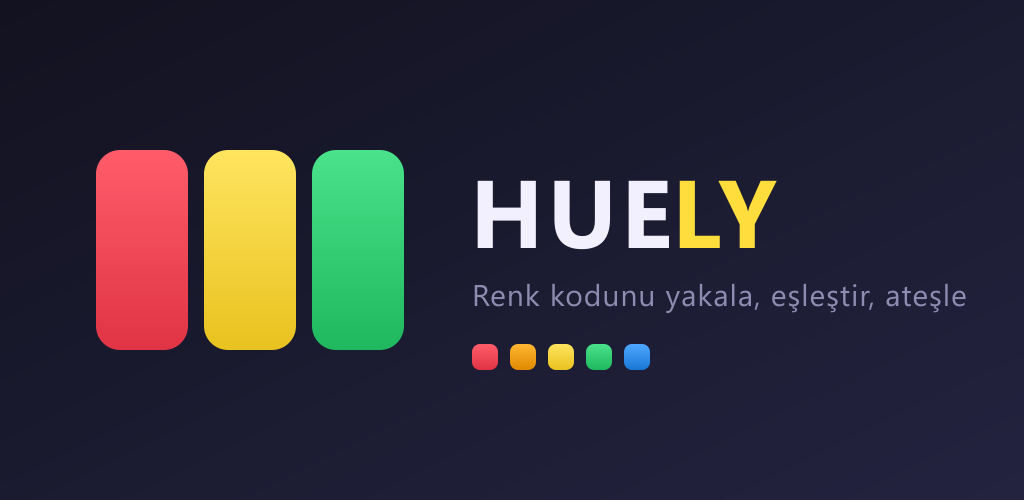
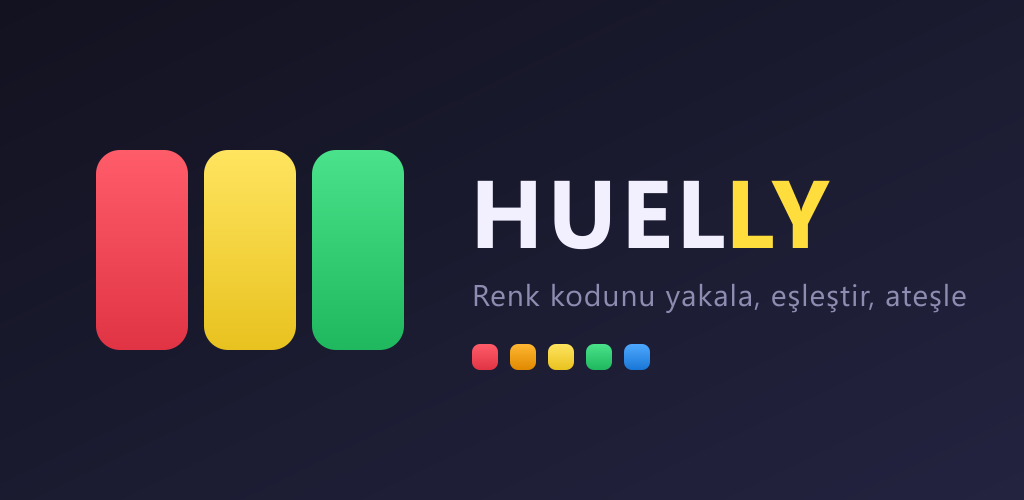
Rename the app from Huely to Huelly
Covers the display name, the wordmark (which is split as markup and so was
missed by a plain search-and-replace), the Android package
com.tahacimen.huely -> com.tahacimen.huelly including its source directory,
the custom URL scheme, the keystore filename in the docs, and the generated
icon, splash and store artwork.

The package id is the app's permanent Play Store identity, but nothing has
been published yet, so changing it now is free.

The GitHub repo URLs are deliberately left as Huely — renaming the repo would
change the live Pages URL and is a separate decision.

Verified on device: launcher reads "Huelly", the game renders HUELLY, and the
new package installs cleanly after removing the old one.

Changed region(s): [[0.6562, 0.36, 0.8125, 0.51]]

diff --git a/docs/index.html b/docs/index.html
@@ -3,8 +3,8 @@
 <head>
 <meta charset="UTF-8">
 <meta name="viewport" content="width=device-width, initial-scale=1">
-<title>Huely — Gizlilik Politikası / Privacy Policy</title>
-<meta name="description" content="Huely oyununun gizlilik politikası. Privacy policy for the Huely game.">
+<title>Huelly — Gizlilik Politikası / Privacy Policy</title>
+<meta name="description" content="Huelly oyununun gizlilik politikası. Privacy policy for the Huelly game.">
 <style>
 :root{
   --bg:#121220; --bg2:#1B1B30; --panel:#232340;
@@ -67,7 +67,7 @@ footer{text-align:center;color:var(--ink-dim);font-size:.85rem;margin-top:48px}
       <span style="background:#FFDD3C"></span><span style="background:#2ED573"></span>
       <span style="background:#1E90FF"></span>
     </div>
-    <div class="brand">Hue<span class="ly">ly</span></div>
+    <div class="brand">Huel<span class="ly">ly</span></div>
     <p>Gizlilik Politikası · Privacy Policy</p>
     <nav class="langbar">
       <a href="#tr">Türkçe</a>
@@ -80,7 +80,7 @@ footer{text-align:center;color:var(--ink-dim);font-size:.85rem;margin-top:48px}
   <p class="updated">Son güncelleme: 20 Temmuz 2026</p>
 
   <p style="margin-top:18px">
-    Bu politika, <strong>Huely</strong> mobil oyununun hangi verileri topladığını ve
+    Bu politika, <strong>Huelly</strong> mobil oyununun hangi verileri topladığını ve
     nasıl kullandığını açıklar. Kısa versiyonu: oyunun çalışması için gereken en az
     veriyi topluyoruz — bir takma ad ve toplam skorunuz. Başka hiçbir şey.
   </p>
@@ -101,7 +101,7 @@ footer{text-align:center;color:var(--ink-dim);font-size:.85rem;margin-top:48px}
   </p>
 
   <h2>2. Toplamadığımız veriler</h2>
-  <p>Huely şunların <strong>hiçbirini</strong> toplamaz:</p>
+  <p>Huelly şunların <strong>hiçbirini</strong> toplamaz:</p>
   <ul>
     <li>Ad, soyad, e-posta, telefon numarası veya posta adresi</li>
     <li>Konum bilgisi</li>
@@ -150,7 +150,7 @@ footer{text-align:center;color:var(--ink-dim);font-size:.85rem;margin-top:48px}
 
   <h2>7. Çocukların gizliliği</h2>
   <p>
-    Huely bilinçli olarak 13 yaşın altındaki çocuklardan kişisel veri toplamaz. Zaten
+    Huelly bilinçli olarak 13 yaşın altındaki çocuklardan kişisel veri toplamaz. Zaten
     oyunun topladığı tek bilgi, kullanıcının kendi seçtiği ve gerçek kimlik içermesi
     gerekmeyen bir takma addır.
   </p>
@@ -171,7 +171,7 @@ footer{text-align:center;color:var(--ink-dim);font-size:.85rem;margin-top:48px}
   <p class="updated">Last updated: 20 July 2026</p>
 
   <p style="margin-top:18px">
-    This policy explains what data the <strong>Huely</strong> mobile game collects and
+    This policy explains what data the <strong>Huelly</strong> mobile game collects and
     how it is used. In short: we collect the minimum the game needs to work — a
     nickname and your total score. Nothing else.
   </p>
@@ -191,7 +191,7 @@ footer{text-align:center;color:var(--ink-dim);font-size:.85rem;margin-top:48px}
   </p>
 
   <h2>2. What we do not collect</h2>
-  <p>Huely collects <strong>none</strong> of the following:</p>
+  <p>Huelly collects <strong>none</strong> of the following:</p>
   <ul>
     <li>Name, surname, email, phone number, or postal address</li>
     <li>Location data</li>
@@ -239,7 +239,7 @@ footer{text-align:center;color:var(--ink-dim);font-size:.85rem;margin-top:48px}
 
   <h2>7. Children's privacy</h2>
   <p>
-    Huely does not knowingly collect personal data from children under 13. The only
+    Huelly does not knowingly collect personal data from children under 13. The only
     information the game collects is a self-chosen nickname that need not contain any
     real identity.
   </p>
@@ -253,7 +253,7 @@ footer{text-align:center;color:var(--ink-dim);font-size:.85rem;margin-top:48px}
     <strong>Email:</strong> <a href="mailto:thcmnai@gmail.com">thcmnai@gmail.com</a>
   </p>
 
-  <footer>Huely · <a href="https://github.com/tahacimen/Huely" rel="noopener">github.com/tahacimen/Huely</a></footer>
+  <footer>Huelly · <a href="https://github.com/tahacimen/Huely" rel="noopener">github.com/tahacimen/Huely</a></footer>
 
 </div>
 </body>

diff --git a/www/index.html b/www/index.html
@@ -3,10 +3,10 @@
 <head>
 <meta charset="UTF-8">
 <meta name="viewport" content="width=device-width, initial-scale=1.0, maximum-scale=1.0, user-scalable=no, viewport-fit=cover">
-<title>Huely</title>
+<title>Huelly</title>
 <style>
 /* ============================================================
-   HUELY — hyper-casual color sequence shooter
+   HUELLY — hyper-casual color sequence shooter
    Single-file prototype. All tunable values live in CONFIG
    at the top of the <script> below.
    ============================================================ */
@@ -232,7 +232,7 @@ button{font-family:inherit;color:inherit;border:none;background:none;cursor:poin
       <span style="background:#FFDD3C"></span><span style="background:#2ED573"></span>
       <span style="background:#1E90FF"></span>
     </div>
-    <div class="brand">Hue<span class="fire">ly</span></div>
+    <div class="brand">Huel<span class="fire">ly</span></div>
     <p>Düşen renk kodunu yere inmeden kopyala. Eşleştir — otomatik ateşlensin.</p>
     <input id="nick-input" maxlength="14" placeholder="Takma ad seç" autocomplete="off">
     <div id="nick-error"></div>
@@ -371,13 +371,13 @@ const CONFIG = {
                           app restarts. This is what a published build uses.
      3. in-memory       — last-resort fallback (e.g. private mode where
                           localStorage is blocked) so the game never crashes.
-   Keys are namespaced 'huely:p:' (personal) / 'huely:s:' (shared) in
+   Keys are namespaced 'huelly:p:' (personal) / 'huelly:s:' (shared) in
    localStorage so we never collide with anything else on the origin.
    ============================================================ */
 const memStore = {};
-const LS_PREFIX = 'huely:';
+const LS_PREFIX = 'huelly:';
 const hasLS = (() => {
-  try { const k='huely:__t'; localStorage.setItem(k,'1'); localStorage.removeItem(k); return true; }
+  try { const k='huelly:__t'; localStorage.setItem(k,'1'); localStorage.removeItem(k); return true; }
   catch { return false; }
 })();
 const lsKey = (key, shared) => LS_PREFIX + (shared?'s:':'p:') + key;

diff --git a/android/app/src/main/java/com/tahacimen/huelly/MainActivity.java b/android/app/src/main/java/com/tahacimen/huelly/MainActivity.java
@@ -1,4 +1,4 @@
-package com.tahacimen.huely;
+package com.tahacimen.huelly;
 
 import android.os.Bundle;
 import androidx.core.view.WindowCompat;

diff --git a/PRIVACY.md b/PRIVACY.md
@@ -1,8 +1,8 @@
-# Huely — Gizlilik Politikası
+# Huelly — Gizlilik Politikası
 
 **Son güncelleme:** 20 Temmuz 2026
 
-Bu politika, **Huely** mobil oyununun hangi verileri topladığını ve nasıl
+Bu politika, **Huelly** mobil oyununun hangi verileri topladığını ve nasıl
 kullandığını açıklar. Kısa versiyonu: oyunun çalışması için gereken en az
 veriyi topluyoruz — bir takma ad ve toplam skorunuz. Başka hiçbir şey.
 
@@ -22,7 +22,7 @@ hız tercihiniz) **yalnızca kendi cihazınızda** saklanır ve sunucuya gönder
 
 ## 2. Toplamadığımız veriler
 
-Huely şunların **hiçbirini** toplamaz:
+Huelly şunların **hiçbirini** toplamaz:
 
 - Ad, soyad, e-posta, telefon numarası veya posta adresi
 - Konum bilgisi
@@ -69,7 +69,7 @@ düzeltilmesini veya silinmesini isteme hakkına sahipsiniz.
 
 ## 7. Çocukların gizliliği
 
-Huely bilinçli olarak 13 yaşın altındaki çocuklardan kişisel veri toplamaz.
+Huelly bilinçli olarak 13 yaşın altındaki çocuklardan kişisel veri toplamaz.
 Zaten oyunun topladığı tek bilgi, kullanıcının kendi seçtiği ve gerçek kimlik
 içermesi gerekmeyen bir takma addır.
 
@@ -87,11 +87,11 @@ Gizlilikle ilgili sorularınız veya veri silme talepleriniz için:
 ---
 ---
 
-# Huely — Privacy Policy
+# Huelly — Privacy Policy
 
 **Last updated:** 20 July 2026
 
-This policy explains what data the **Huely** mobile game collects and how it is
+This policy explains what data the **Huelly** mobile game collects and how it is
 used. In short: we collect the minimum the game needs to work — a nickname and
 your total score. Nothing else.
 
@@ -109,7 +109,7 @@ stored **only on your own device** and is never sent to the server.
 
 ## 2. What we do not collect
 
-Huely collects **none** of the following:
+Huelly collects **none** of the following:
 
 - Name, surname, email, phone number, or postal address
 - Location data
@@ -154,7 +154,7 @@ correct, or delete your data.
 
 ## 7. Children's privacy
 
-Huely does not knowingly collect personal data from children under 13. The only
+Huelly does not knowingly collect personal data from children under 13. The only
 information the game collects is a self-chosen nickname that need not contain any
 real identity.
 

diff --git a/README.md b/README.md
@@ -1,4 +1,4 @@
-# Huely
+# Huelly
 
 Hyper-casual color sequence matching game. Single-file HTML/CSS/JS game, wrapped
 as an Android app with Capacitor.
@@ -15,7 +15,7 @@ npx serve www
 
 - `www/index.html` — the entire game (styles, markup, and logic in one file)
 - `android/` — native Android project generated by Capacitor
-- `capacitor.config.json` — app id (`com.tahacimen.huely`), name, and `webDir`
+- `capacitor.config.json` — app id (`com.tahacimen.huelly`), name, and `webDir`
 
 ## Android build
 
@@ -50,8 +50,8 @@ offline — if you lose it you can never update this app again.**
 
 ```bash
 keytool -genkeypair -v \
-  -keystore android/huely-release.jks \
-  -alias huely -keyalg RSA -keysize 2048 -validity 10000
+  -keystore android/huelly-release.jks \
+  -alias huelly -keyalg RSA -keysize 2048 -validity 10000
 ```
 
 `keytool` ships with the JDK; on this machine it is at
@@ -86,7 +86,7 @@ before every upload — Play rejects a `versionCode` it has already seen.
 - **Storage** is layered so progress survives everywhere: `window.storage` (Claude
   Artifacts) → `localStorage` (real browsers + Android WebView) → in-memory fallback.
   A published build persists via `localStorage`.
-- **Global leaderboard** runs on Supabase (project `Huely`, region `eu-central-1`),
+- **Global leaderboard** runs on Supabase (project `Huelly`, region `eu-central-1`),
   called directly over the REST API — no SDK, so the single-file build stays intact.
   All writes go through the `submit_score()` RPC (`SECURITY DEFINER`), which only ever
   raises a player's score, so a tampered client cannot lower anyone. The publishable

diff --git a/store/LISTING.md b/store/LISTING.md
@@ -1,4 +1,4 @@
-# Google Play mağaza listesi — Huely
+# Google Play mağaza listesi — Huelly
 
 Bu dosya, Play Console'a girilecek metinleri ve varlıkları toplar.
 Karakter sınırları Google'ın kurallarına göredir.
@@ -8,7 +8,7 @@ Karakter sınırları Google'ın kurallarına göredir.
 ## Uygulama adı (en fazla 30 karakter)
 
 ```
-Huely — Renk Kodu Oyunu
+Huelly — Renk Kodu Oyunu
 ```
 *(23 karakter)*
 
@@ -24,7 +24,7 @@ Düşen renk kodunu ezberle, eşleştir, ateşle. 33 seviye, 4 zorluk.
 ```
 Renk kodu düşüyor. Yere inmeden ezberle, aynısını gir — eşleşince otomatik ateşlenir.
 
-Huely, tek dokunuşla öğrenilen ama ustalaşması yıllar süren türden bir refleks ve hafıza oyunu. Kurallar üç saniyede anlaşılır: ekranın üstünden renkli bloklardan oluşan bir şerit düşer, sen de alttaki paletten aynı sırayı girersin. Doğru girdiğinde şerit havaya uçar ve puanı cebe atarsın. Şerit yere değerse bir can gider.
+Huelly, tek dokunuşla öğrenilen ama ustalaşması yıllar süren türden bir refleks ve hafıza oyunu. Kurallar üç saniyede anlaşılır: ekranın üstünden renkli bloklardan oluşan bir şerit düşer, sen de alttaki paletten aynı sırayı girersin. Doğru girdiğinde şerit havaya uçar ve puanı cebe atarsın. Şerit yere değerse bir can gider.
 
 Ne kadar yukarıda yakalarsan o kadar çok puan. Acele etmek her zaman kazandırır — ama panik yaptırır.
 
